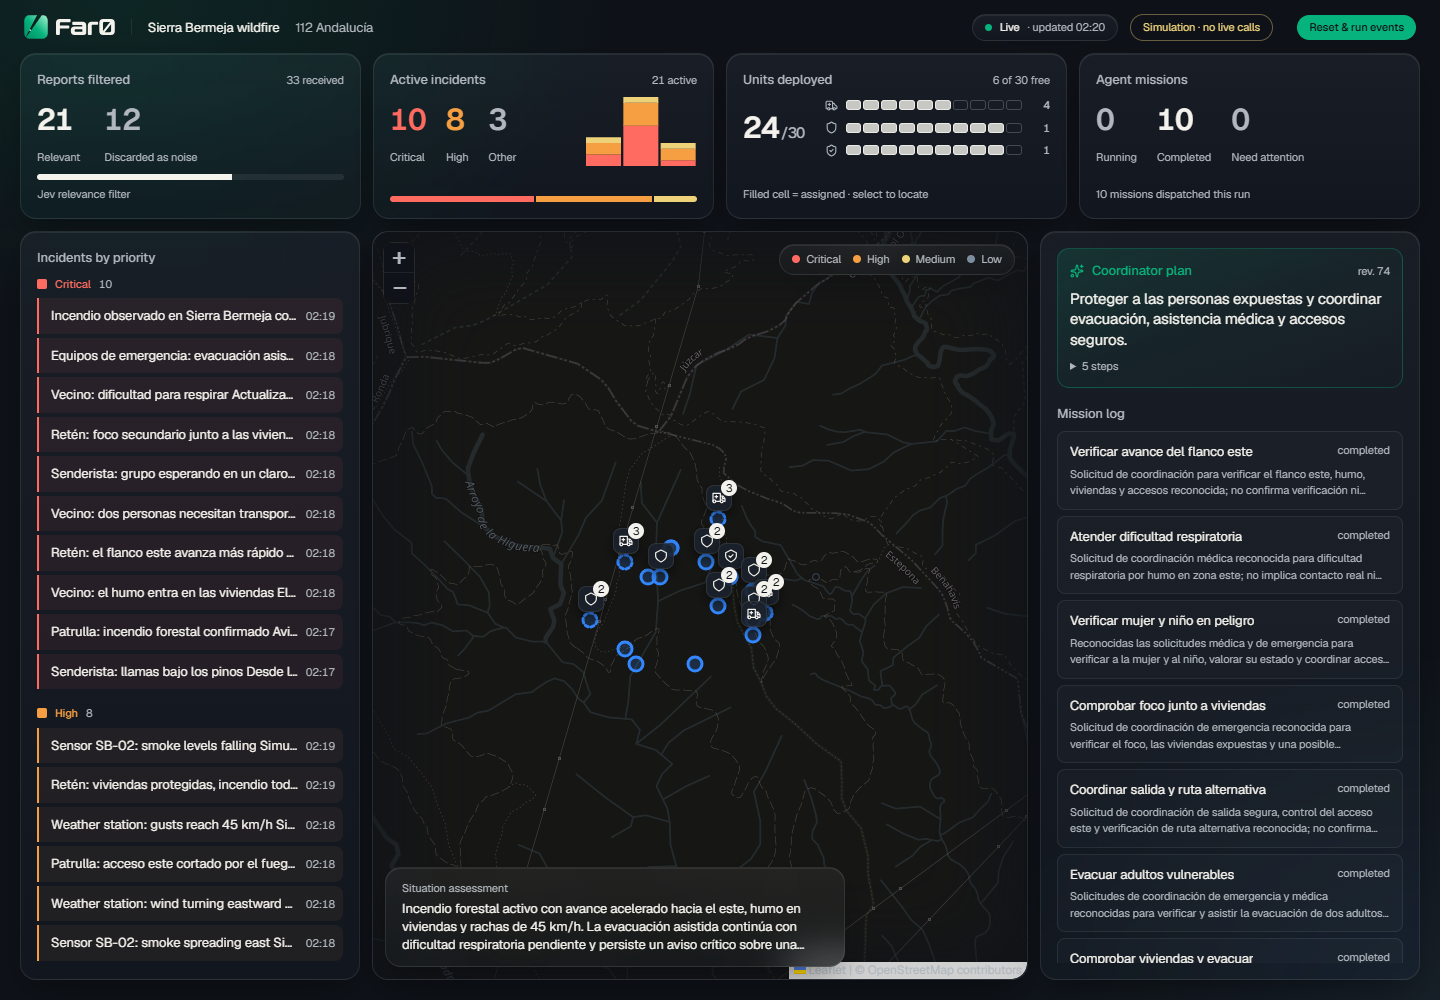
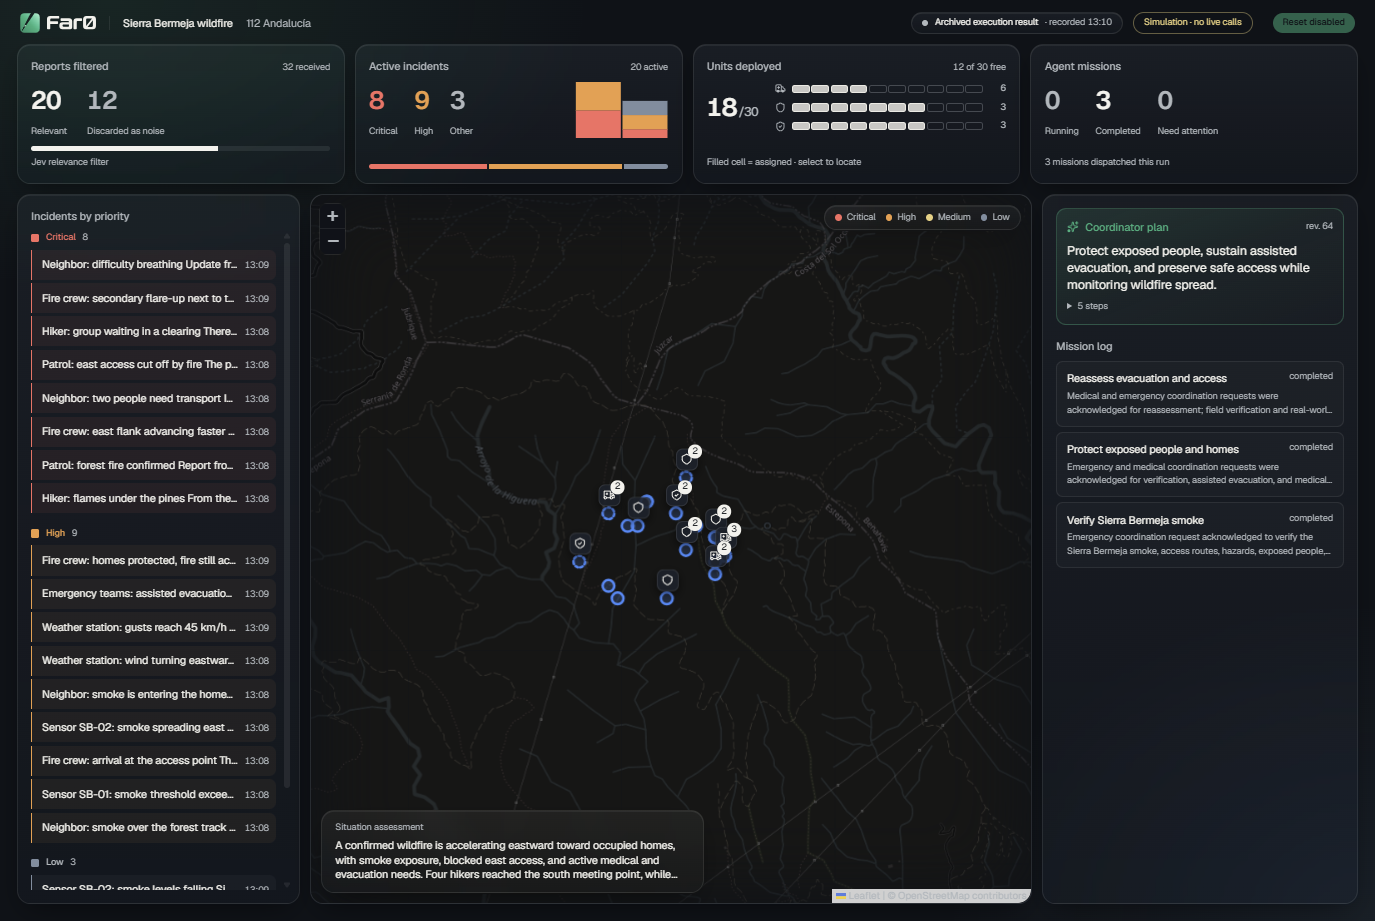
docs: refresh archived dashboard preview in English (#93)

diff --git a/README.md b/README.md
@@ -25,7 +25,7 @@ built for the HappyRobot challenge at HackSpain 2026.
 
 [![FARO dashboard showing incident priorities, deployed resources, the Sierra Bermeja map and coordinator missions](docs/images/faro-dashboard.png)](https://faro-lovat-iota.vercel.app/dashboard)
 
-_The deployed dashboard with a simulated wildfire scenario. Click the image to explore it._
+_The archived Sierra Bermeja simulation: 32 reports, 20 relevant incidents and three completed missions. Click the image to explore the snapshot; no live calls are made._
 
 FARO filters incoming reports, prioritizes incidents, assigns available resources
 and coordinates response missions. The dashboard brings together the map, incoming
